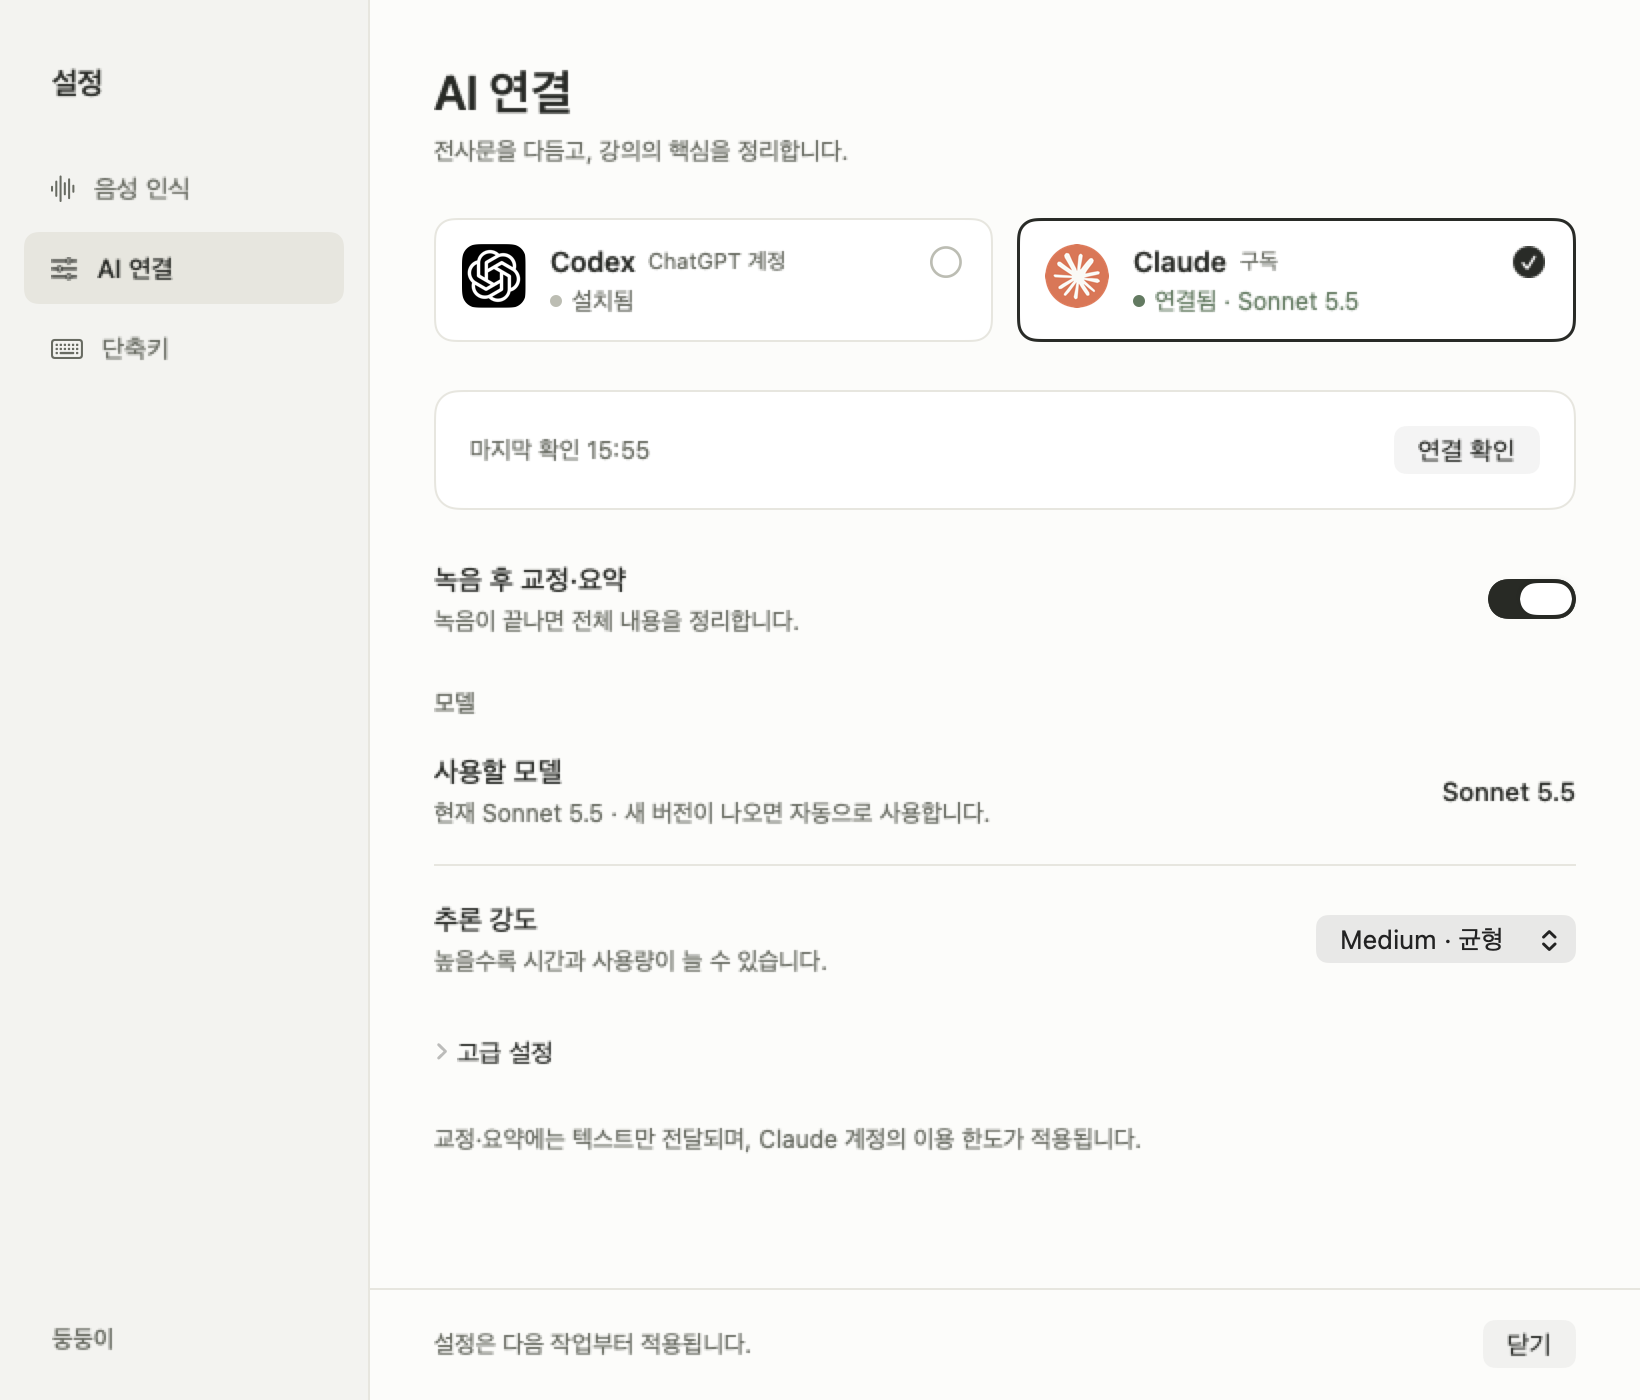
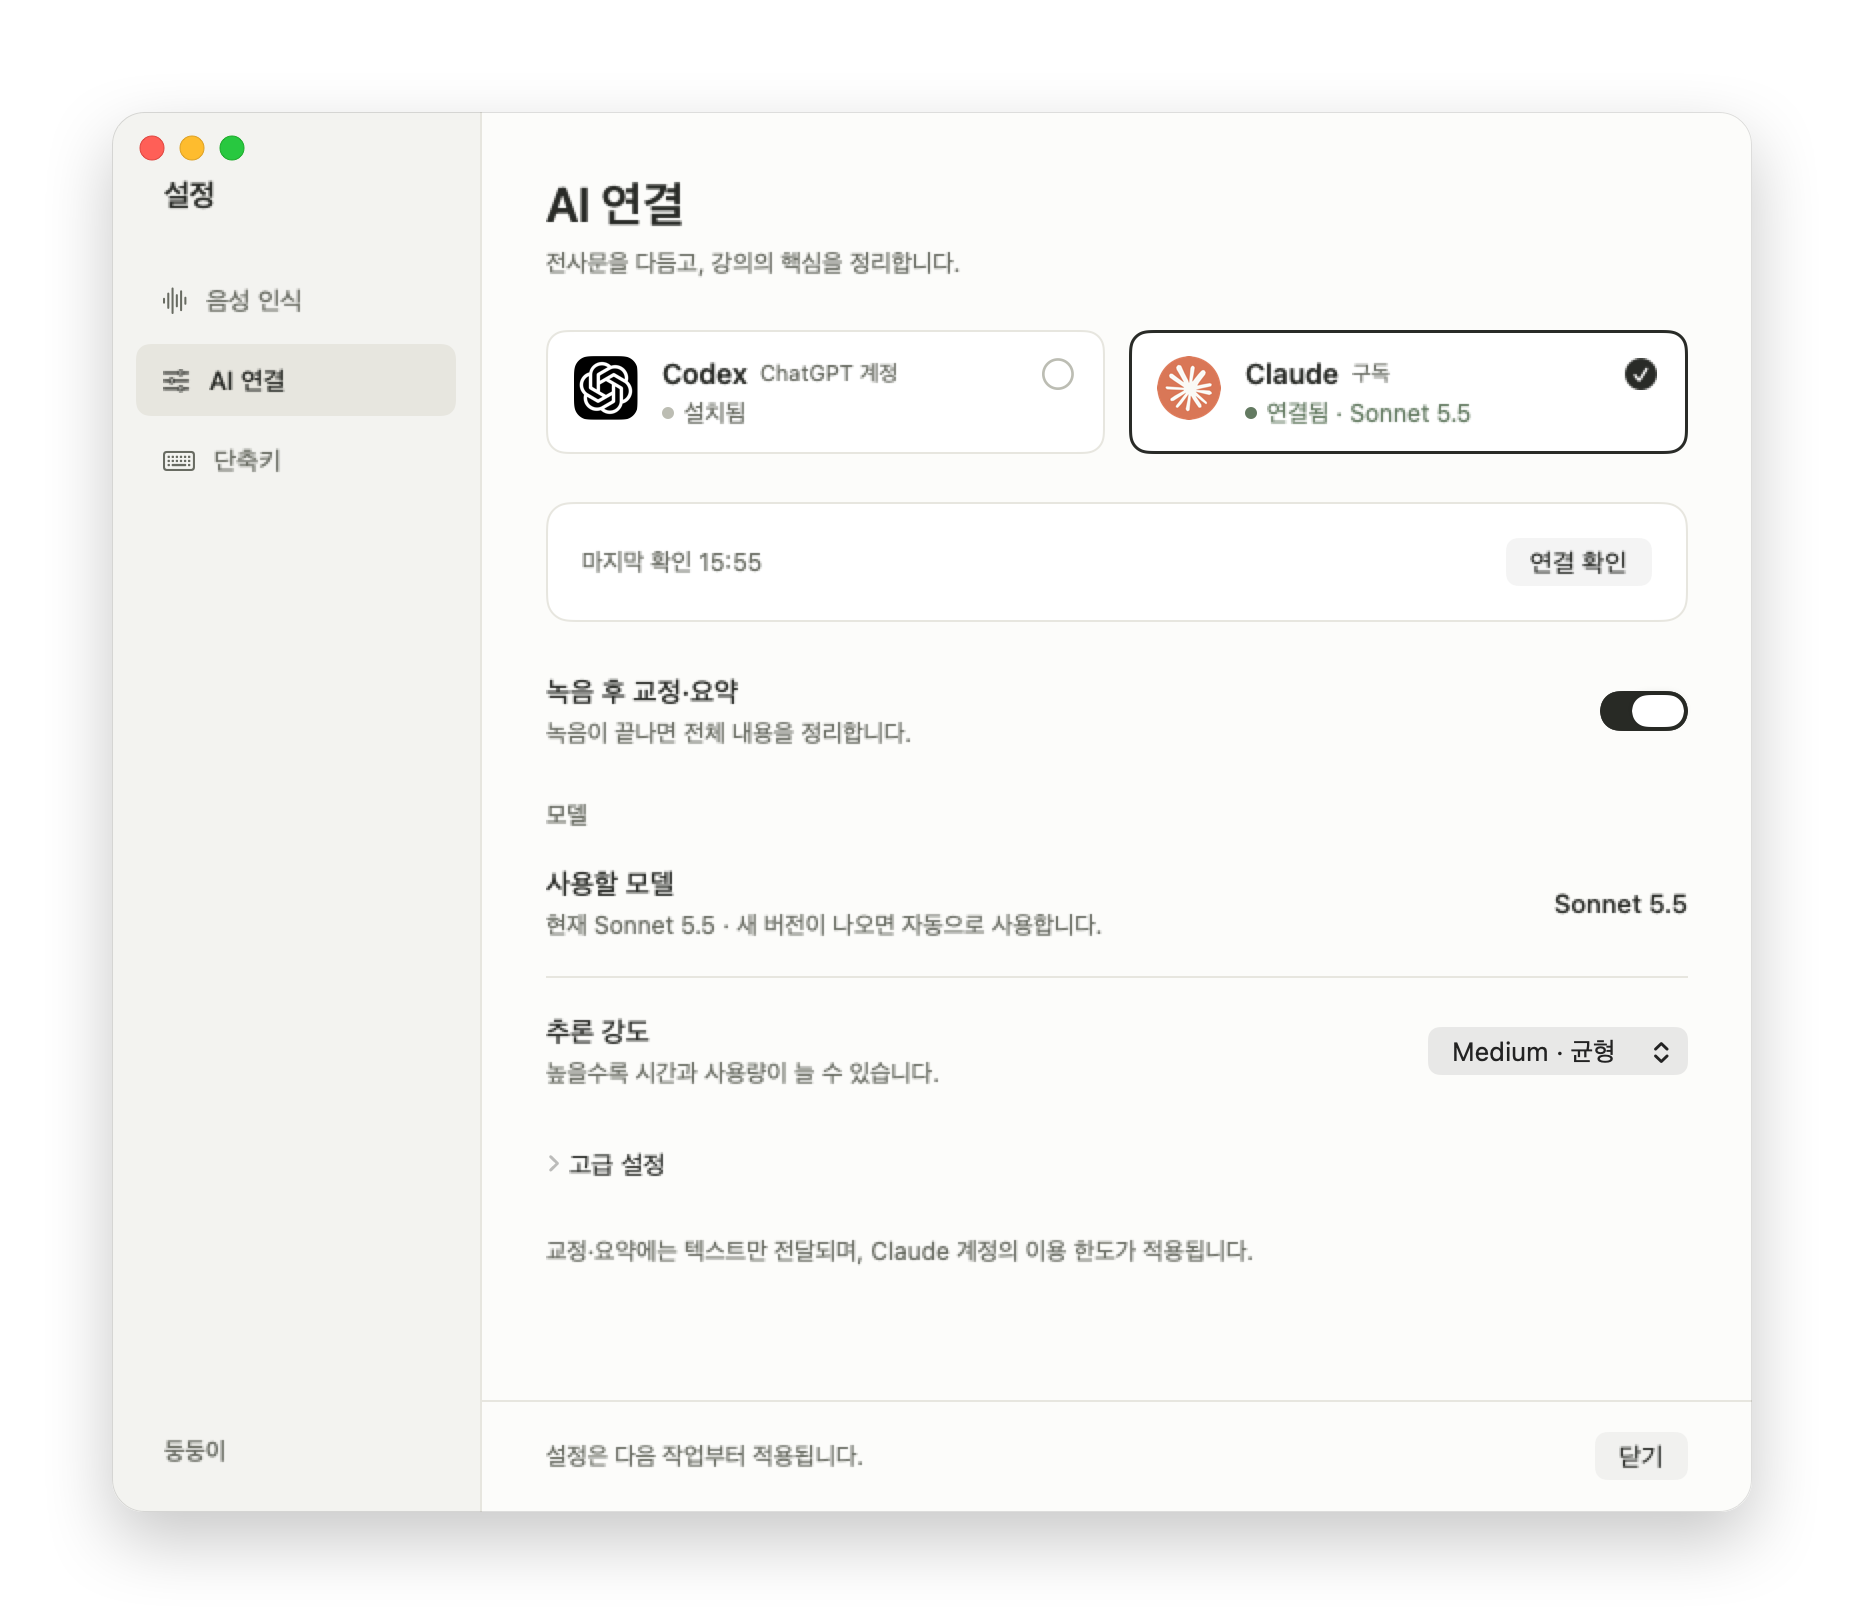
docs: frame README captures in macOS window chrome

diff --git a/scripts/frame-window.swift b/scripts/frame-window.swift
@@ -1,0 +1,39 @@
+// Wraps an unmodified app capture in macOS window chrome. Usage: frame-window INPUT.png OUTPUT.png
+import AppKit
+
+/// Traffic lights in window points, drawn at `scale`. render-readme-tour.swift keeps the same geometry.
+func drawTrafficLights(in rect: NSRect, scale: CGFloat) {
+    let colors = [(0xFF5F57, 0xE0443E), (0xFEBC2E, 0xDEA123), (0x28C840, 0x1AAB29)]
+    for (i, (fill, stroke)) in colors.enumerated() {
+        let d = 12 * scale, cx = rect.minX + (20 + CGFloat(i) * 20) * scale, cy = rect.maxY - 18 * scale
+        let dot = NSBezierPath(ovalIn: NSRect(x: cx - d / 2, y: cy - d / 2, width: d, height: d))
+        NSColor(hex: fill).setFill(); dot.fill()
+        NSColor(hex: stroke).setStroke(); dot.lineWidth = 0.5 * scale; dot.stroke()
+    }
+}
+extension NSColor {
+    convenience init(hex: Int) { self.init(srgbRed: CGFloat(hex >> 16 & 255) / 255, green: CGFloat(hex >> 8 & 255) / 255, blue: CGFloat(hex & 255) / 255, alpha: 1) }
+}
+
+let image = NSImage(contentsOfFile: CommandLine.arguments[1])!
+let margin: CGFloat = 56, radius: CGFloat = 16
+let size = NSSize(width: image.size.width + margin * 2, height: image.size.height + margin * 2)
+let rep = NSBitmapImageRep(bitmapDataPlanes: nil, pixelsWide: Int(size.width * 2), pixelsHigh: Int(size.height * 2), bitsPerSample: 8, samplesPerPixel: 4, hasAlpha: true, isPlanar: false, colorSpaceName: .deviceRGB, bytesPerRow: 0, bitsPerPixel: 0)!
+rep.size = size
+NSGraphicsContext.saveGraphicsState()
+NSGraphicsContext.current = NSGraphicsContext(bitmapImageRep: rep)
+let window = NSRect(x: margin, y: margin, width: image.size.width, height: image.size.height)
+let shape = NSBezierPath(roundedRect: window, xRadius: radius, yRadius: radius)
+NSGraphicsContext.saveGraphicsState()
+let shadow = NSShadow(); shadow.shadowColor = NSColor.black.withAlphaComponent(0.22); shadow.shadowBlurRadius = 36; shadow.shadowOffset = NSSize(width: 0, height: -14); shadow.set()
+NSColor.white.setFill(); shape.fill()
+NSGraphicsContext.restoreGraphicsState()
+NSGraphicsContext.saveGraphicsState()
+shape.addClip()
+image.draw(in: window)
+NSGraphicsContext.restoreGraphicsState()
+drawTrafficLights(in: window, scale: 1)
+NSColor.black.withAlphaComponent(0.12).setStroke()
+let border = NSBezierPath(roundedRect: window.insetBy(dx: 0.25, dy: 0.25), xRadius: radius, yRadius: radius); border.lineWidth = 0.5; border.stroke()
+NSGraphicsContext.restoreGraphicsState()
+try! rep.representation(using: .png, properties: [:])!.write(to: URL(fileURLWithPath: CommandLine.arguments[2]))

diff --git a/scripts/render-readme-tour.swift b/scripts/render-readme-tour.swift
@@ -23,6 +23,15 @@ func cardRect(_ img: NSImage) -> NSRect {
     let w = img.size.width * s, h = img.size.height * s
     return NSRect(x: area.midX - w/2, y: area.minY, width: w, height: h)
 }
+// Same geometry as frame-window.swift.
+func drawTrafficLights(in rect: NSRect, scale: CGFloat, alpha: CGFloat) {
+    let colors: [(CGFloat, CGFloat, CGFloat)] = [(1, 0.373, 0.341), (0.996, 0.737, 0.18), (0.157, 0.784, 0.251)]
+    for (i, c) in colors.enumerated() {
+        let d = 12 * scale, cx = rect.minX + (20 + CGFloat(i) * 20) * scale, cy = rect.maxY - 18 * scale
+        NSColor(srgbRed: c.0, green: c.1, blue: c.2, alpha: alpha).setFill()
+        NSBezierPath(ovalIn: NSRect(x: cx - d / 2, y: cy - d / 2, width: d, height: d)).fill()
+    }
+}
 func drawCard(_ img: NSImage, alpha: CGFloat, dy: CGFloat) {
     var r = cardRect(img); r.origin.y -= dy
     NSGraphicsContext.saveGraphicsState()
@@ -32,6 +41,7 @@ func drawCard(_ img: NSImage, alpha: CGFloat, dy: CGFloat) {
     NSGraphicsContext.saveGraphicsState()
     NSBezierPath(roundedRect: r, xRadius: 14, yRadius: 14).addClip()
     img.draw(in: r, from: .zero, operation: .sourceOver, fraction: alpha)
+    drawTrafficLights(in: r, scale: r.width / img.size.width, alpha: alpha)
     NSGraphicsContext.restoreGraphicsState()
     NSColor.black.withAlphaComponent(0.08 * alpha).setStroke()
     let border = NSBezierPath(roundedRect: r.insetBy(dx: 0.5, dy: 0.5), xRadius: 14, yRadius: 14); border.lineWidth = 1; border.stroke()

diff --git a/assets/readme/PROVENANCE.md b/assets/readme/PROVENANCE.md
@@ -11,11 +11,11 @@
 | `app-ai-vendor.png` | `--providers-preview --providers-claude-preview` | AI 연결 설정, 1640 × 1400 |
 | `tour.gif` | 위 캡처 + Codex 선택 상태 설정 화면 | 소개 영상, 1200 × 750, 약 17초 |
 
-모든 캡처에 `--sidebar-ai-preview --providers-claude-preview`를 함께 지정했다.
+모든 캡처에 `--sidebar-ai-preview --providers-claude-preview`를 함께 지정했다. README의 PNG는 원본 캡처에 `scripts/frame-window.swift`로 macOS 창 모서리·신호등 버튼·그림자만 덧그린 것이며, 크기는 원본보다 사방 56pt 넓다. 원본 캡처는 비공개 `.local/readme-captures-2026-10-28/shots/`에 보존한다.
 
 과목·녹음 제목, 전사문, 강조 카드, 필기는 화면 소개를 위해 직접 작성한 가상 데이터다. 실제 수업이나 AI 분석 결과가 아니다. 파형과 재생 길이는 앱에 포함된 27초 데모 음성을 반복해 만든 75분 음성에서 왔으며, 화면의 가상 강의와 일치하는 녹음으로 주장하지 않는다. 캡처에는 UI가 표시한 내용을 그대로 담았고 이미지 생성으로 화면을 재구성하지 않았다.
 
-`tour.gif`는 `scripts/render-readme-tour.swift`가 캡처에 배경·문구·전환·커서만 덧그린 프레임을 ffmpeg로 인코딩한 것이다. AI 전환 장면은 Codex 선택 화면과 Claude 선택 화면 두 캡처를 교차 전환해 클릭을 표현했다.
+`tour.gif`는 `scripts/render-readme-tour.swift`가 캡처에 배경·문구·전환·커서·신호등 버튼만 덧그린 프레임을 ffmpeg로 인코딩한 것이다. AI 전환 장면은 Codex 선택 화면과 Claude 선택 화면 두 캡처를 교차 전환해 클릭을 표현했다.
 
 ```sh
 swiftc -O scripts/render-readme-tour.swift -o /tmp/render-tour
